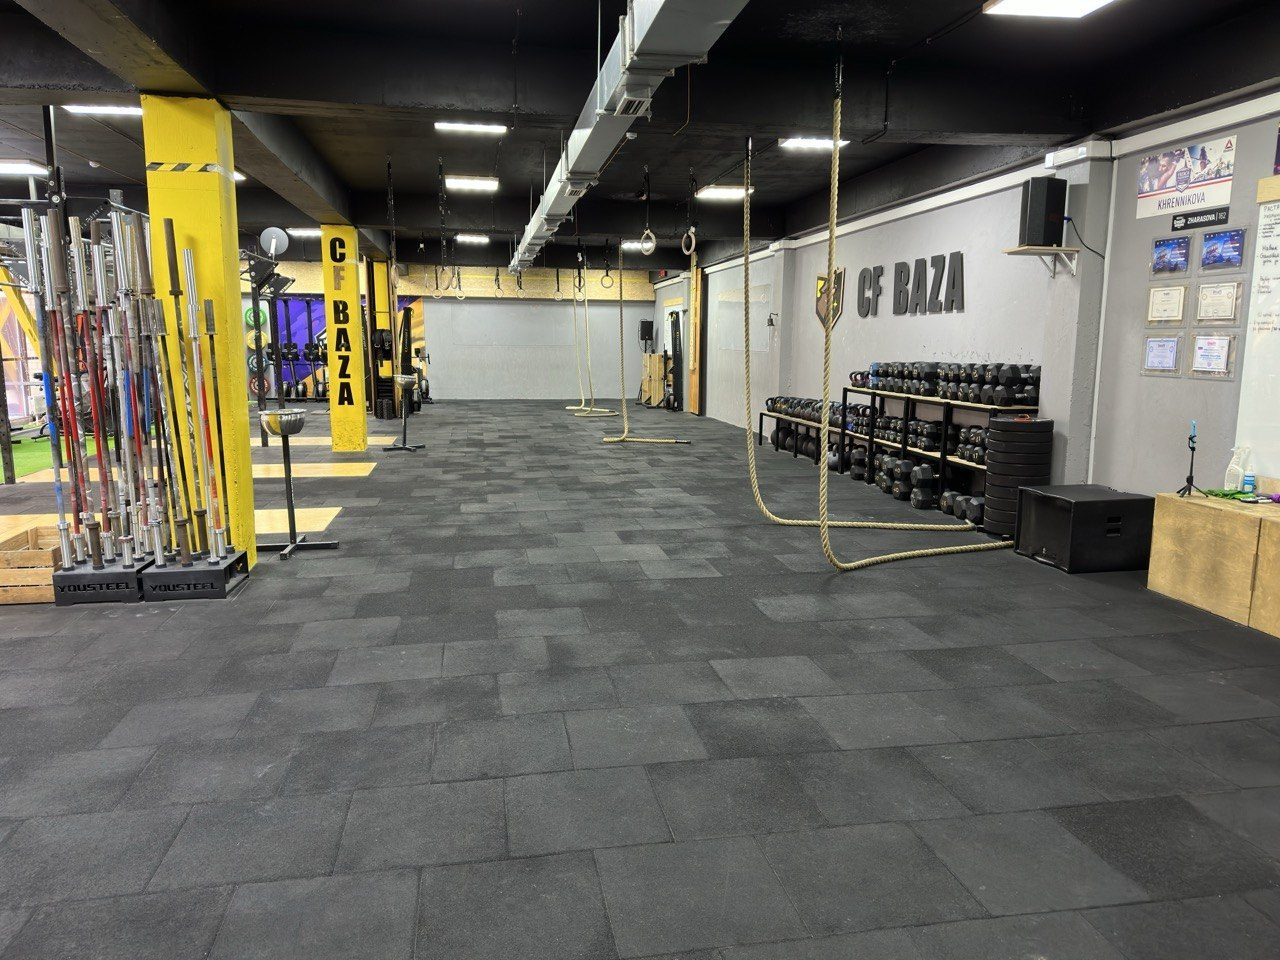
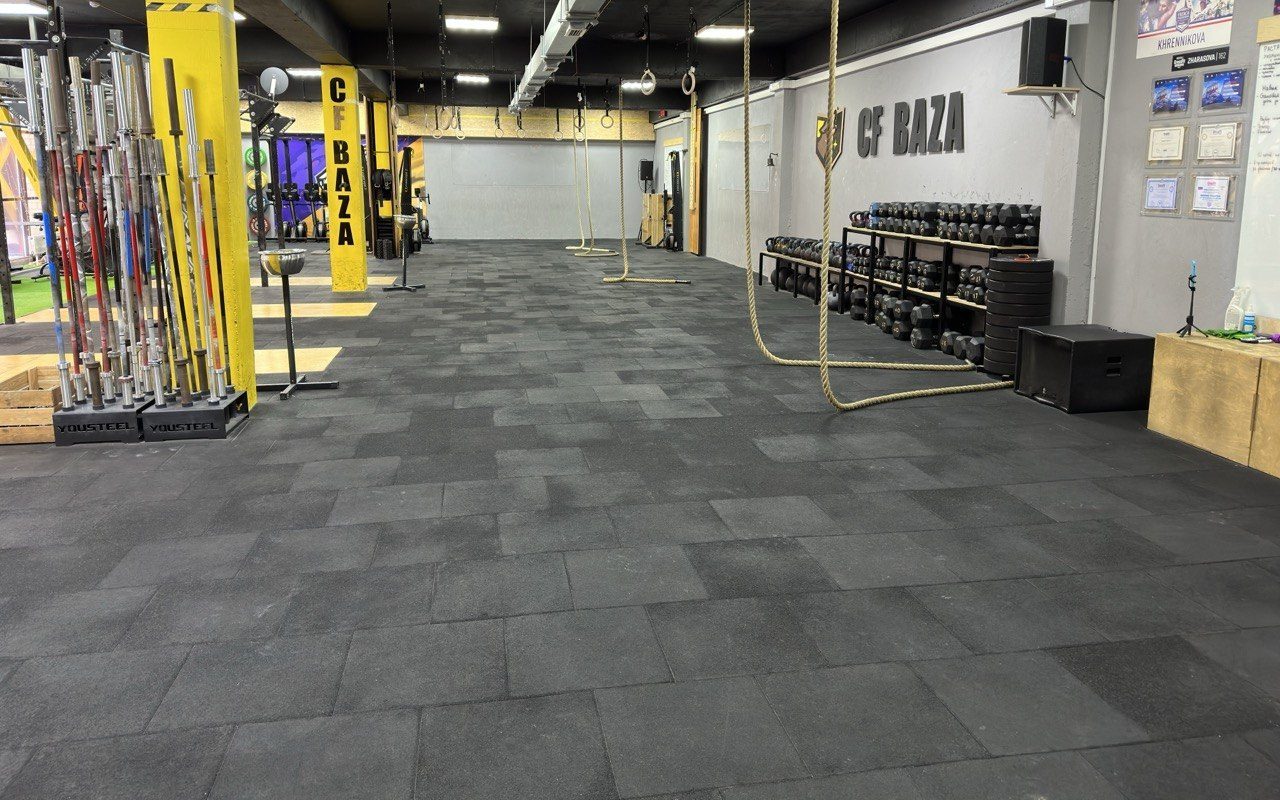
Фото первого экрана обрезано сверху по отметке на столбе
Claude-Session: https://claude.ai/code/session_013c4zKRAgcNZ662Fa2PjXia

diff --git a/lib/views.js b/lib/views.js
@@ -6,7 +6,7 @@ const e = (v) => String(v ?? '').replace(/[&<>"']/g, (c) => ({ '&': '&amp;', '<'
 const lines = (v) => String(v || '').split(/\r?\n/).map((s) => s.trim()).filter(Boolean);
 const up = (id) => (id ? `/uploads/${encodeURIComponent(id)}` : '');
 const pad2 = (n) => String(n).padStart(2, '0');
-const V = '7';
+const V = '8';
 
 const PHONE_SVG = '<svg width="20" height="20" viewBox="0 0 24 24" fill="none" stroke="currentColor" stroke-width="2" aria-hidden="true"><path d="M22 16.9v3a2 2 0 0 1-2.2 2 19.8 19.8 0 0 1-8.6-3.1 19.5 19.5 0 0 1-6-6A19.8 19.8 0 0 1 2.1 4.2 2 2 0 0 1 4.1 2h3a2 2 0 0 1 2 1.7c.1.9.4 1.8.7 2.7a2 2 0 0 1-.5 2.1L8 9.8a16 16 0 0 0 6 6l1.3-1.3a2 2 0 0 1 2.1-.4c.9.3 1.8.6 2.7.7a2 2 0 0 1 1.7 2z"/></svg>';
 const ARROW_SVG = '<svg width="18" height="18" viewBox="0 0 24 24" fill="none" stroke="currentColor" stroke-width="2.4" aria-hidden="true"><path d="M5 12h14M13 6l6 6-6 6"/></svg>';
@@ -118,7 +118,7 @@ ${FONTS}
 <main id="main">
 
 <section class="hero" id="top">
-  <div class="hero-bg" style="background-image: url('${s.hero_image ? up(s.hero_image) : '/static/img/hero.jpg'}')"></div>
+  <div class="hero-bg" style="background-image: url('${s.hero_image ? up(s.hero_image) : '/static/img/hero.jpg?v=' + V}')"></div>
   <div class="wrap hero-in">
     <p class="eyebrow">${e(s.hero_eyebrow)}</p>
     <h1>${e(s.hero_title)} <span>${e(s.hero_title_accent)}</span></h1>

diff --git a/static/css/site.css b/static/css/site.css
@@ -73,9 +73,9 @@ p { margin: 0; }
 
 /* Первый экран */
 .hero { position: relative; overflow: hidden; border-bottom: 1px solid #3A3A3A; background: var(--bg-deep); }
-.hero-bg { position: absolute; inset: 0; background-size: cover; background-position: center 12%; }
+.hero-bg { position: absolute; inset: 0; background-size: cover; background-position: center top; }
 .hero-bg::after { content: ""; position: absolute; inset: 0; background: linear-gradient(90deg, rgba(20,20,20,.88) 0%, rgba(20,20,20,.66) 50%, rgba(20,20,20,.35) 100%); }
-@media (max-width: 640px) { .hero-bg { background-position: 30% 20%; } .hero-bg::after { background: rgba(20,20,20,.72); } }
+@media (max-width: 640px) { .hero-bg { background-position: 30% top; } .hero-bg::after { background: rgba(20,20,20,.72); } }
 .hero-in { position: relative; padding-top: clamp(40px, 7vh, 96px); padding-bottom: clamp(44px, 8vh, 110px); }
 .hero h1 { font-size: clamp(32px, min(6.2vw, 10.5vh), 96px); line-height: 1; text-shadow: 0 2px 24px rgba(0,0,0,.35); }
 .hero h1 span { display: block; }
